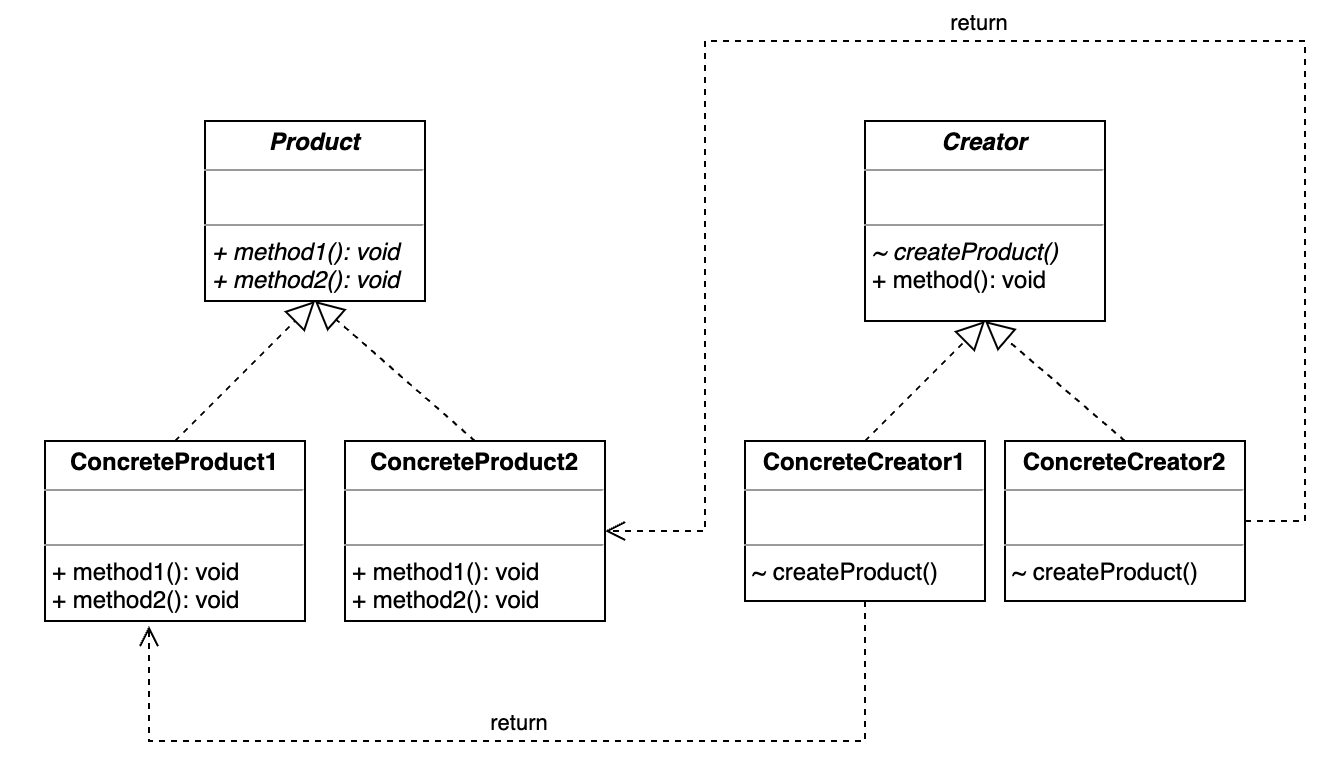
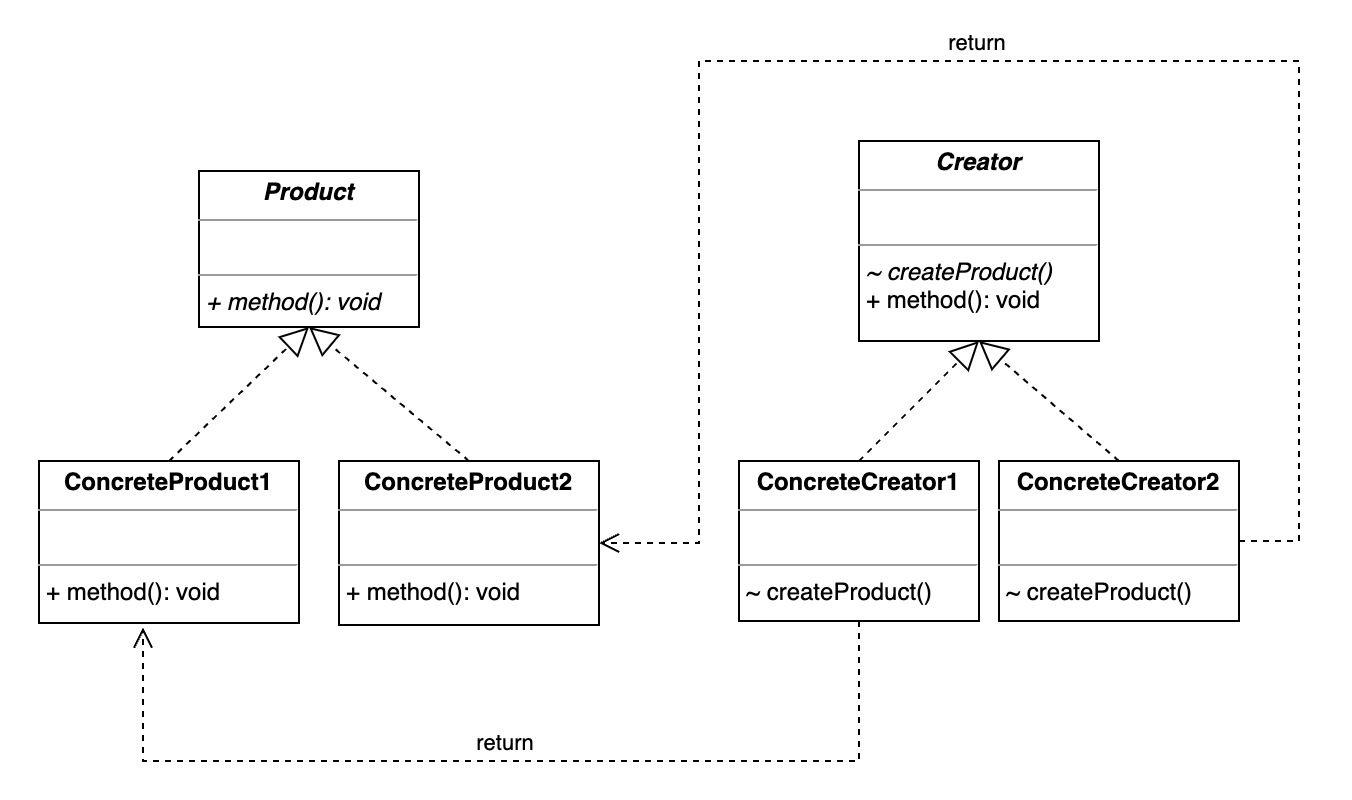
Refactor for Factory Method pattern

diff --git a/src/test/java/GoF/creational/factorymethod/src/FactoryMethodTest.java b/src/test/java/GoF/creational/factorymethod/src/FactoryMethodTest.java
@@ -18,8 +18,8 @@ class FactoryMethodTest {
 
     @BeforeEach
     void setUp() {
-        expectedOutput1 = "ConcreteProduct1::method1\nConcreteProduct1::method2\n";
-        expectedOutput2 = expectedOutput1 + "ConcreteProduct2::method1\nConcreteProduct2::method2\n";
+        expectedOutput1 = "ConcreteProduct1::method\n";
+        expectedOutput2 = expectedOutput1 + "ConcreteProduct2::method\n";
         System.setOut(new PrintStream(outContent));
     }
 

diff --git a/src/main/java/GoF/creational/factorymethod/src/ConcreteProduct1.java b/src/main/java/GoF/creational/factorymethod/src/ConcreteProduct1.java
@@ -2,12 +2,7 @@ package GoF.creational.factorymethod.src;
 
 public class ConcreteProduct1 extends Product {
     @Override
-    public void method1() {
-        System.out.println("ConcreteProduct1::method1");
-    }
-
-    @Override
-    public void method2() {
-        System.out.println("ConcreteProduct1::method2");
+    public void method() {
+        System.out.println("ConcreteProduct1::method");
     }
 }

diff --git a/src/main/java/GoF/creational/factorymethod/src/ConcreteProduct2.java b/src/main/java/GoF/creational/factorymethod/src/ConcreteProduct2.java
@@ -2,12 +2,7 @@ package GoF.creational.factorymethod.src;
 
 public class ConcreteProduct2 extends Product {
     @Override
-    public void method1() {
-        System.out.println("ConcreteProduct2::method1");
-    }
-
-    @Override
-    public void method2() {
-        System.out.println("ConcreteProduct2::method2");
+    public void method() {
+        System.out.println("ConcreteProduct2::method");
     }
 }

diff --git a/src/main/java/GoF/creational/factorymethod/src/Creator.java b/src/main/java/GoF/creational/factorymethod/src/Creator.java
@@ -5,7 +5,6 @@ public abstract class Creator {
 
     public void method() {
         Product product = createProduct();
-        product.method1();
-        product.method2();
+        product.method();
     }
 }

diff --git a/src/main/java/GoF/creational/factorymethod/src/Product.java b/src/main/java/GoF/creational/factorymethod/src/Product.java
@@ -1,7 +1,5 @@
 package GoF.creational.factorymethod.src;
 
 public abstract class Product {
-    public abstract void method1();
-
-    public abstract void method2();
+    public abstract void method();
 }

diff --git a/src/main/java/GoF/creational/factorymethod/factory_method.md b/src/main/java/GoF/creational/factorymethod/factory_method.md
@@ -26,32 +26,20 @@
 
 ```java
 public abstract class Product {
-    public abstract void method1();
-
-    public abstract void method2();
+    public abstract void method();
 }
 
 public class ConcreteProduct1 extends Product {
     @Override
-    public void method1() {
-        System.out.println("ConcreteProduct1::method1");
-    }
-
-    @Override
-    public void method2() {
-        System.out.println("ConcreteProduct1::method2");
+    public void method() {
+        System.out.println("ConcreteProduct1::method");
     }
 }
 
 public class ConcreteProduct2 extends Product {
     @Override
-    public void method1() {
-        System.out.println("ConcreteProduct2::method1");
-    }
-
-    @Override
-    public void method2() {
-        System.out.println("ConcreteProduct2::method2");
+    public void method() {
+        System.out.println("ConcreteProduct2::method");
     }
 }
 ```
@@ -66,8 +54,7 @@ public abstract class Creator {
 
     public void method() {
         Product product = createProduct();
-        product.method1();
-        product.method2();
+        product.method();
     }
 }
 
